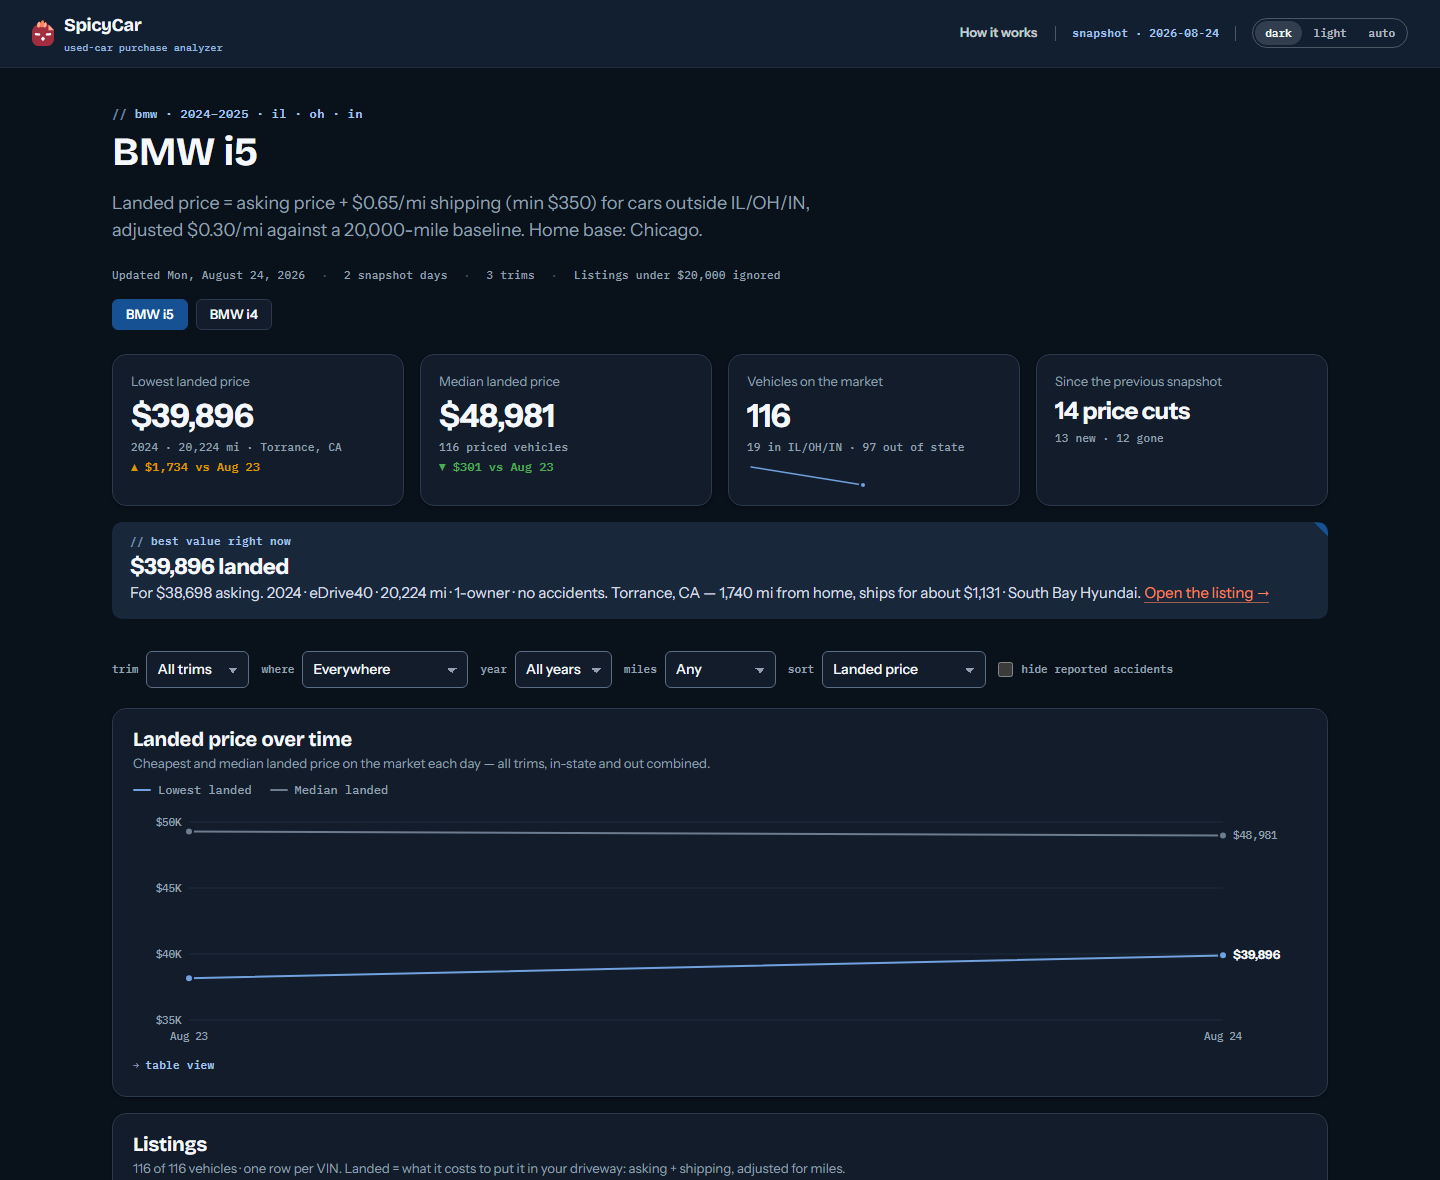
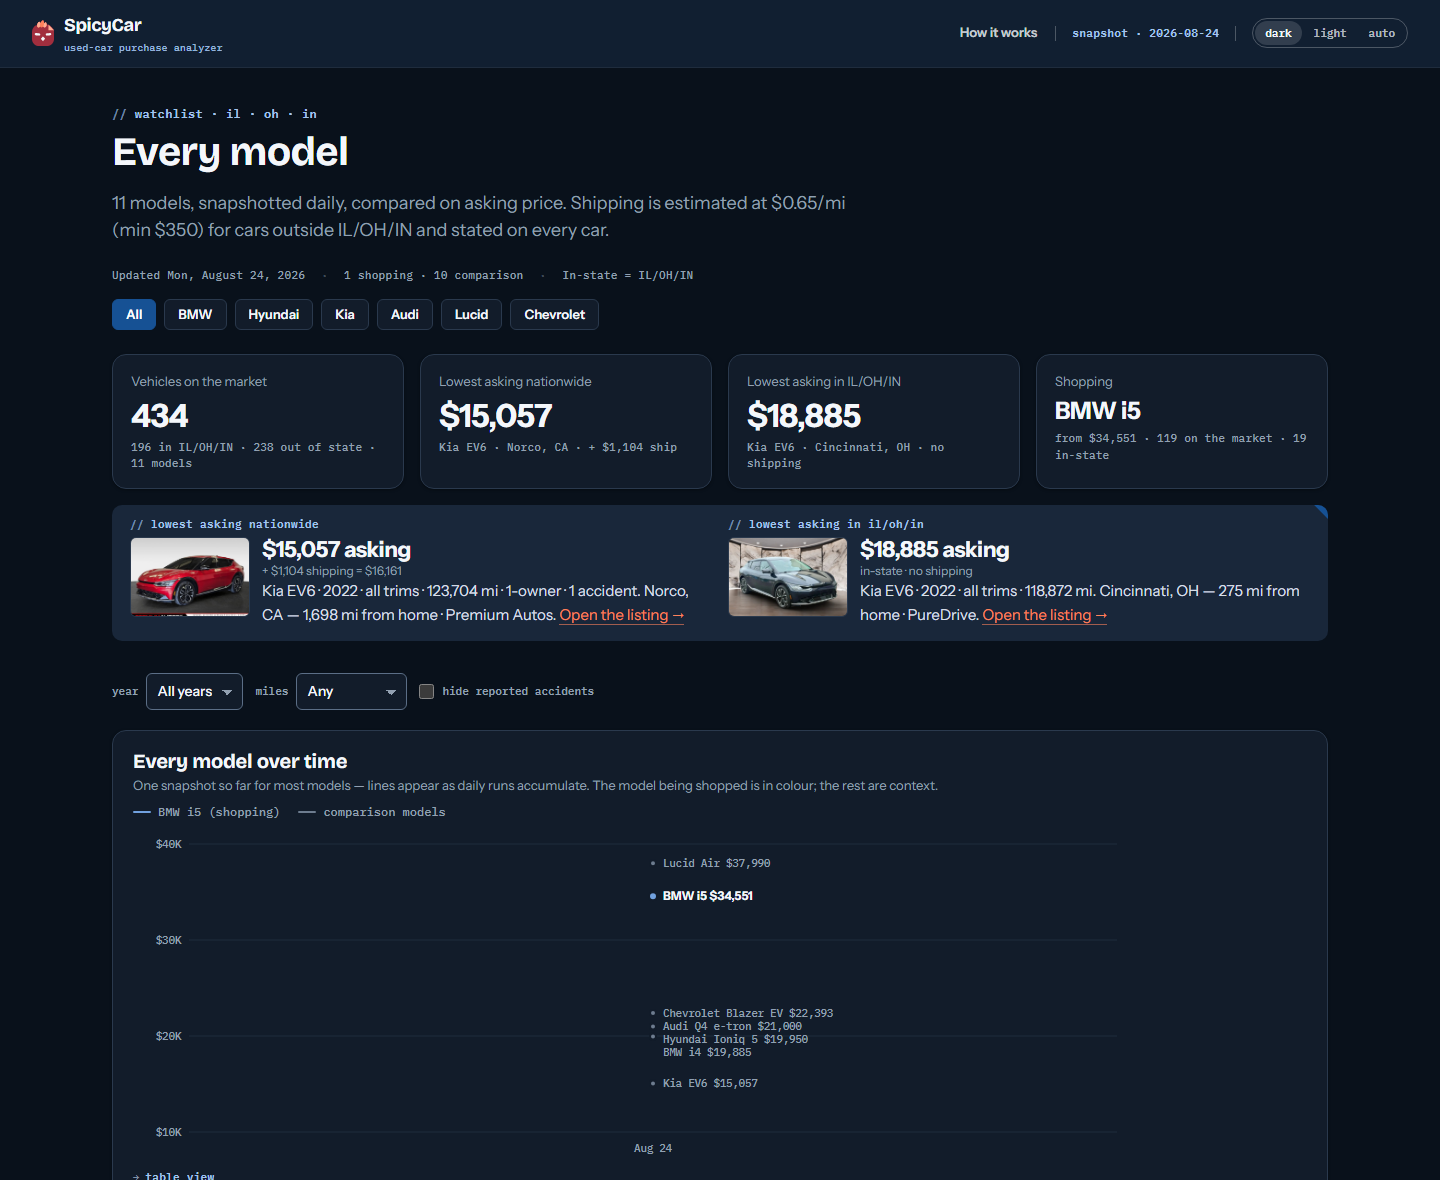
overview photos fall through to another car's picture when a dealer image will not load; screenshots of the new front page
Claude-Session: https://claude.ai/code/session_01DG7bZAsHHRJRPbTw6TmSCs

diff --git a/docs/index.html b/docs/index.html
@@ -436,11 +436,14 @@
   }
 
   // ---------- shared pieces ----------
-  function thumbFor(x, large) {
+  // The photo slot. alts are other photos to fall through to if a dealer's image will not load (a model row, never a specific car).
+  function thumbFor(x, large, alts) {
     const cls = 'sc-frame' + (large ? ' sc-frame--lg' : '');
-    return x && x.image
-      ? el('img', { class: cls, src: x.image, alt: '', loading: 'lazy', referrerpolicy: 'no-referrer', onerror: (e) => { e.target.replaceWith(el('div', { class: cls + ' sc-frame--empty' }, 'no photo')); } })
-      : el('div', { class: cls + ' sc-frame--empty' }, 'no photo');
+    const queue = [x && x.image, ...(alts || [])].filter((u, i, a) => u && a.indexOf(u) === i);
+    if (!queue.length) return el('div', { class: cls + ' sc-frame--empty' }, 'no photo');
+    const img = el('img', { class: cls, src: queue.shift(), alt: '', loading: 'lazy', referrerpolicy: 'no-referrer' });
+    img.addEventListener('error', () => { if (queue.length) img.src = queue.shift(); else img.replaceWith(el('div', { class: cls + ' sc-frame--empty' }, 'no photo')); });
+    return img;
   }
   // History flags: the two that change a decision are chips (good / danger outline); the rest are words.
   function flagsCell(x) {
@@ -715,7 +718,8 @@
       const best = lowestBy(priced, 'price'), bestLocal = lowestBy(priced.filter(isLocal), 'price');
       const photo = (best && best.image) ? best : (bestLocal && bestLocal.image ? bestLocal : rows.find((x) => x.image) || null);
       return { bk, mk, m, brand: b.label || bk, label: m.label || mk, shopping: !!m.shopping, cadence: m.cadence || 1, as_of: m.as_of, next_due: m.next_due,
-        n: rows.length, n_local: rows.filter(isLocal).length, best, bestLocal, photo, median: median(priced.map((x) => x.price)),
+        n: rows.length, n_local: rows.filter(isLocal).length, best, bestLocal, photo, photos: rows.filter((x) => x.image).map((x) => x.image).slice(0, 8),
+        median: median(priced.map((x) => x.price)),
         trend: askingSeries(m, m.daily || []).map((p) => p.value) };
     }).sort((a, b) => (b.shopping - a.shopping) || ((a.best ? a.best.price : 1e12) - (b.best ? b.best.price : 1e12)));
   }
@@ -787,7 +791,7 @@
       el('th', { class: 'sc-num' }, 'Lowest asking nationwide'), el('th', { class: 'sc-num' }, `Lowest asking in ${st}`), el('th', { class: 'sc-num' }, 'Median asking'), el('th', null, 'Trend'), el('th', null, 'Data'))));
     const obody = el('tbody');
     for (const r of rows) {
-      const modelCell = el('td', { class: 'col-model' }, el('div', { class: 'sc-media' }, thumbFor(r.photo, true), el('div', { class: 'sc-media__body' },
+      const modelCell = el('td', { class: 'col-model' }, el('div', { class: 'sc-media' }, thumbFor(r.photo, true, r.photos), el('div', { class: 'sc-media__body' },
         el('div', { class: 'sc-media__title' }, r.label),
         el('div', { class: 'sc-media__sub' }, `${r.n} on the market · ${r.n_local} in-state`),
         el('div', { class: 'sc-nowrap' }, el('span', { class: 'sc-chip ' + (r.shopping ? 'sc-chip--spice' : 'sc-chip--neutral') }, r.shopping ? 'shopping' : 'comparison'), ' ',
